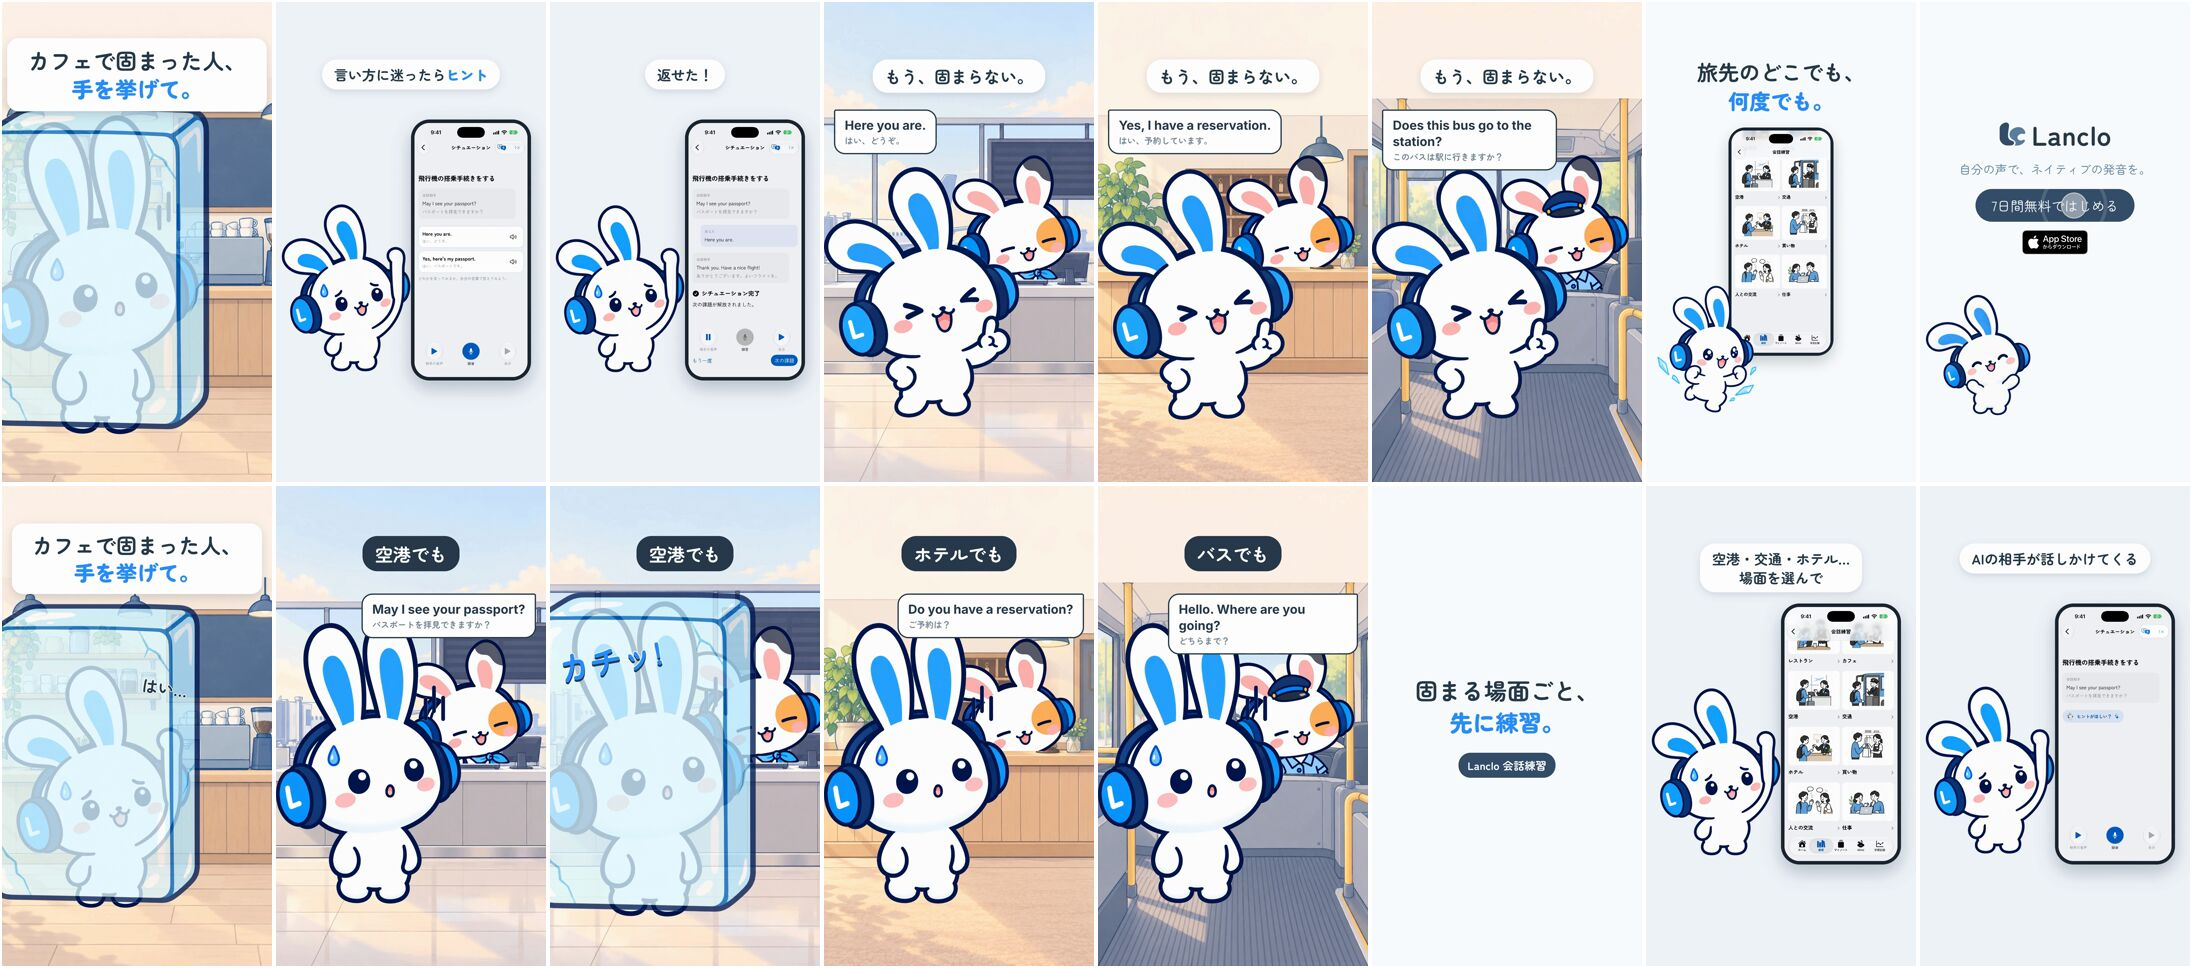
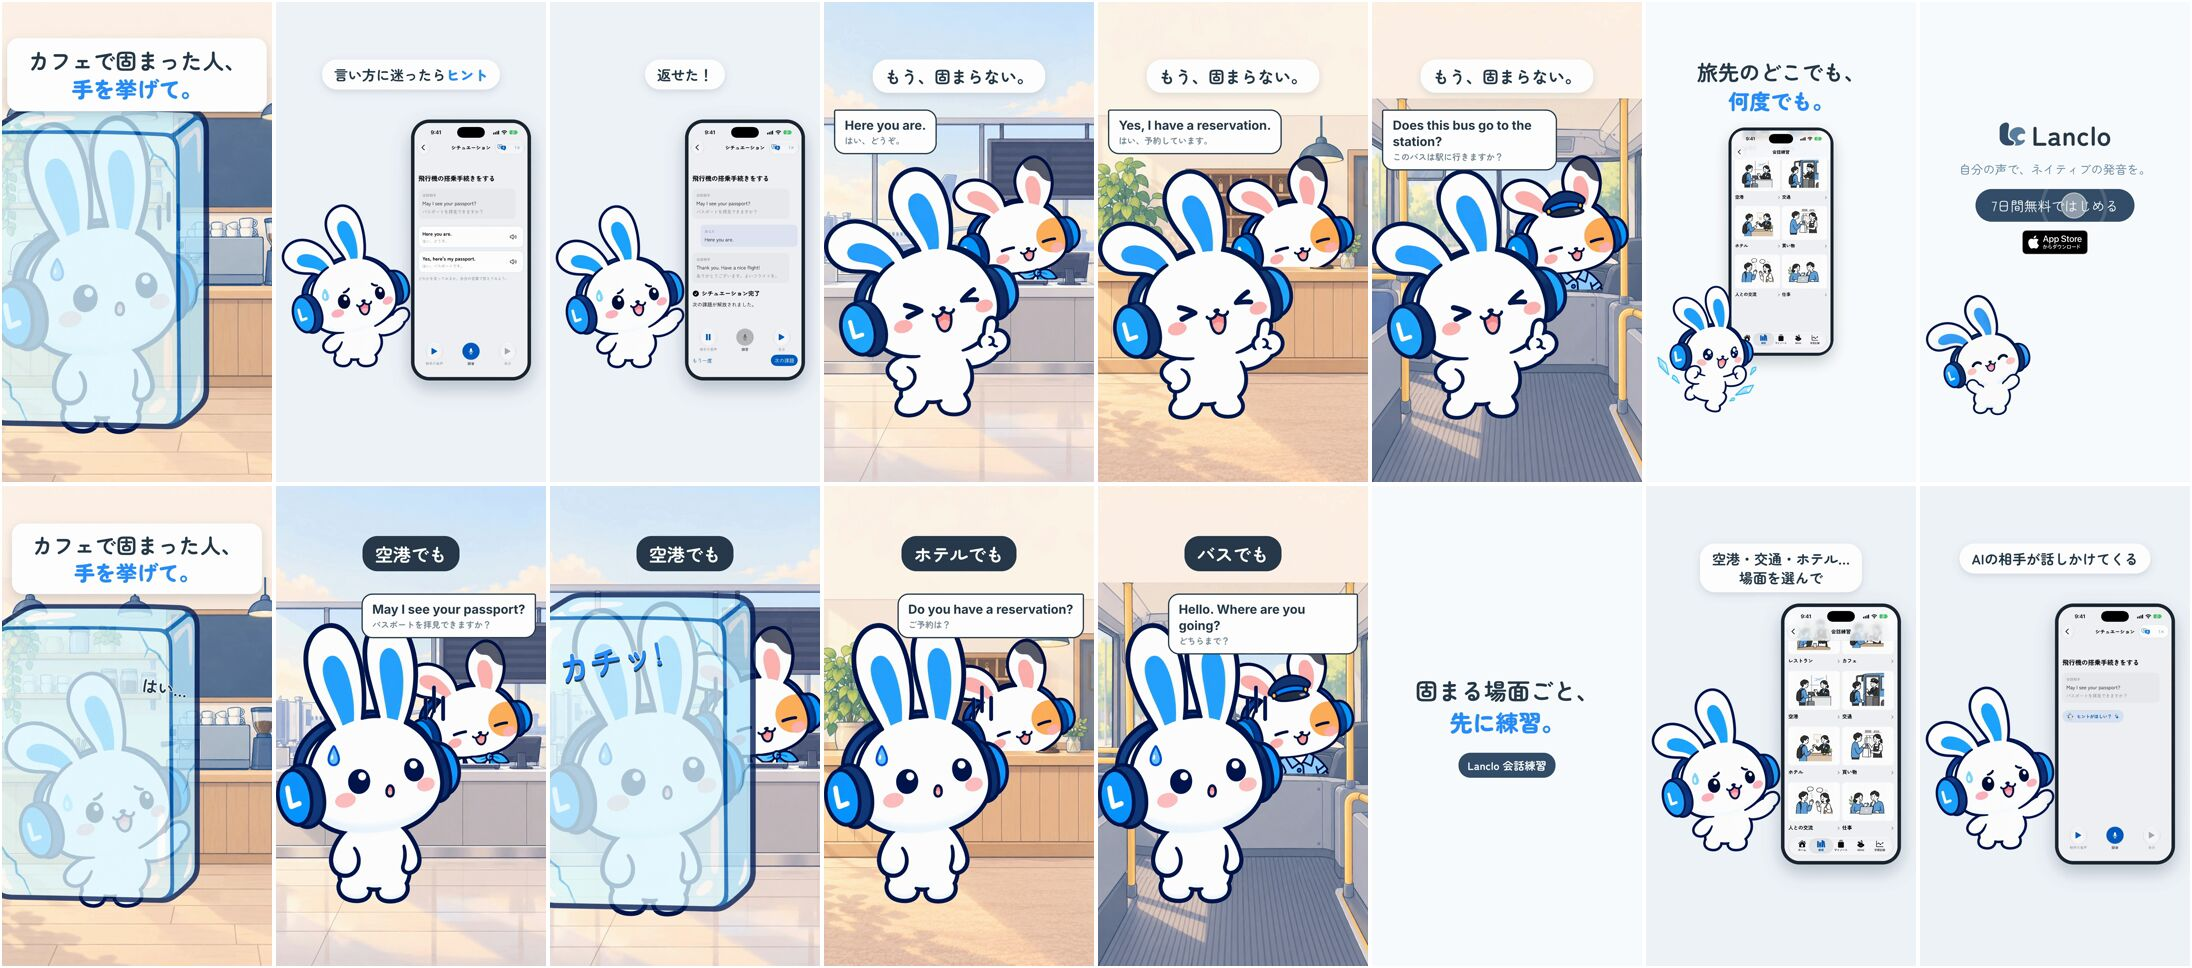
Frozen Abroad: redraw the raised-hand pose with a short arm from the shoulder (owner: the hand looked wrong)

diff --git a/films/mimi-frozen-abroad/source/hf/index.html b/films/mimi-frozen-abroad/source/hf/index.html
@@ -69,7 +69,7 @@
         <img class="plate" src="assets/art/cafe.webp" alt="" />
         <img class="front" style="top:1140px" src="assets/art/counter.webp" alt="" />
         <img id="m-cafe" class="mimi stunned" src="assets/art/stunned.webp" alt="" />
-        <img id="m-hand" class="mimi" src="assets/art/hand-up.webp" alt="" />
+        <img id="m-hand" class="mimi" src="assets/art/hand-up-v2.webp" alt="" />
         <img id="ice0" class="ice" src="assets/kit/props/ice.webp" alt="" />
       </div>
       <div id="s-air" class="scene">
@@ -124,7 +124,7 @@
 
       <!-- The real app (8.5-14.3; simulator, QA fixture) -->
       <div id="app">
-        <img id="a-mimi" src="assets/art/hand-up.webp" alt="" />
+        <img id="a-mimi" src="assets/art/hand-up-v2.webp" alt="" />
         <div id="device">
           <div id="screen">
             <video id="a-app" class="clip" src="assets/app/app.mp4" muted playsinline data-start="8.5" data-duration="5.8" data-track-index="9"></video>

diff --git a/films/mimi-frozen-abroad/PROMPT.md b/films/mimi-frozen-abroad/PROMPT.md
@@ -4,7 +4,7 @@ This is a consolidated prompt for rebuilding the finished film, written after th
 
 Make a 21-second vertical (1080×1920, 60 fps) Lanclo Mimi short on the shared kit (`kits/mimi-short`), a follow-up to films/mimi-roleplay. Only use roleplay scenes that exist in the app's catalogue.
 
-1. 0–1.6 s, hook: from frame 1 a white card 「カフェで固まった人、手を挙げて。」 over the café (#17's plate and counter) with Mimi frozen in the library ice block; at 0.45 s she raises a mitten inside the ice (`hand-up`), 「はい…」.
+1. 0–1.6 s, hook: from frame 1 a white card 「カフェで固まった人、手を挙げて。」 over the café (#17's plate and counter) with Mimi frozen in the library ice block; at 0.45 s she raises a mitten inside the ice (`hand-up-v2`), 「はい…」.
 2. 1.6–7.5 s, three quick freezes, each with a dark label (「空港でも」「ホテルでも」「バスでも」), Mimi's friend as staff behind a counter cut from the plate, an English bubble with a small Japanese gloss, and カチッ! + ice on the last word: airport check-in "May I see your passport?" (Kokoro `bf_emma`), hotel "Do you have a reservation?" (`af_bella`), bus driver "Hello. Where are you going?" (`am_michael`).
 3. 7.5–8.5 s: white copy card 「固まる場面ごと、先に練習。」 + pill 「Lanclo 会話練習」.
 4. 8.5–14.3 s: the real app (simulator, `--qa-situations` + capture-only patch with the airport scene's authored lines, Japanese UI, English study language) on a phone with Mimi beside it: catalogue (空港・交通・ホテル) → 空港 → 飛行機の搭乗手続きをする → loading → "May I see your passport?" with its meaning → hints "Here you are." → 録音 → シチュエーション完了. Captions 「空港・交通・ホテル…場面を選んで」「AIの相手が話しかけてくる」「言い方に迷ったらヒント」「返せた！」. Mask 「デモデータ」.

diff --git a/films/mimi-frozen-abroad/PROCESS.md b/films/mimi-frozen-abroad/PROCESS.md
@@ -28,3 +28,9 @@
 
 - GSAP の時刻0の `set` で初期表示を決めると、描画側のシーク順によって0秒付近が空白になった。初期の表示・非表示はCSSで決め、GSAPは切り替えだけにする。
 - 共有シミュレーターの撮影スクリプトで `PATCH=... 関数` と書くと sh では変数が残り、次の撮影にもパッチが適用されようとして失敗した。撮影ごとに `env -u PATCH` で消す。
+
+## 修正（オーナーの確認後）
+
+> 32の動画手が変になっている
+
+最初の `hand-up`（手を挙げるMimi）は、挙げた腕が頭・ヘッドホンの輪郭から細長く伸びていて、Mimiの短い腕に見えなかった。codex-p で肩から生えた短い丸い腕に描き直し（`prompts/02-codex-hand-up-fix.txt` → `art/hand-up-v2`）、冒頭とアプリ場面の両方で差し替えた。ほかのポーズ（stunned・confident・grin）も動いている瞬間のフレームで腕を確認した。

diff --git a/films/mimi-frozen-abroad/source/README.md b/films/mimi-frozen-abroad/source/README.md
@@ -10,7 +10,7 @@ PATCH=$F/app-capture/airport-lines.patch LANCLO_REPO=~/Develop/native-voice-clon
 sh $F/scripts/app_track.sh                 # hf/assets/app/app.mp4 (film 8.5-14.3) and catalog.mp4 (film 18.7-)
 # 1. art (Codex drawings in art/*.png, art/friend/*.png) -> cut-outs, plates and counter fronts
 for p in airport-ask hotel-ask driver-ask; do kits/mimi-short/scripts/cutout.sh $F/art/friend/$p.png $F/art/$p.webp; done
-kits/mimi-short/scripts/cutout.sh $F/art/hand-up.png $F/art/hand-up.webp
+kits/mimi-short/scripts/cutout.sh $F/art/hand-up-v2.png $F/art/hand-up-v2.webp
 for b in airport hotel bus; do magick $F/art/$b.png -resize 1080x1920! -quality 90 $F/art/$b.webp; done
 magick $F/art/airport.png -crop 1080x800+0+1110 +repage -define webp:lossless=true $F/art/airport-counter.webp
 magick $F/art/hotel.png -crop 1080x860+0+1060 +repage -define webp:lossless=true $F/art/hotel-counter.webp
